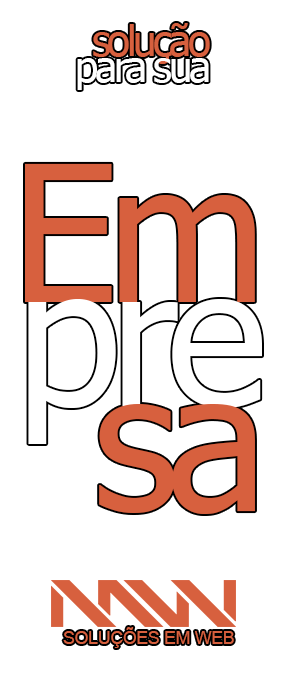
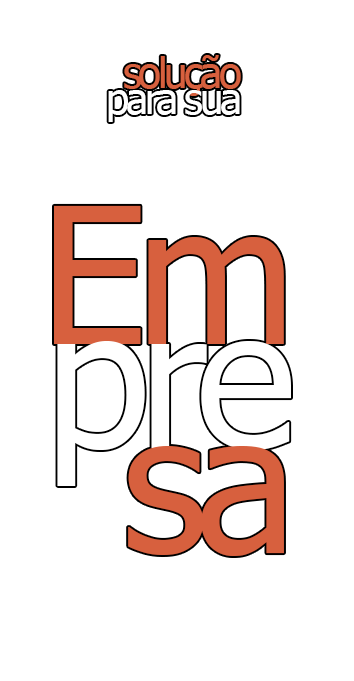
Ajustando o Footer

Changed region(s): [[0.061, 0.2159, 0.9153, 0.9559], [0.2441, 0.0308, 0.7322, 0.185]]

diff --git a/src/styles/home.module.scss b/src/styles/home.module.scss
@@ -5,7 +5,7 @@
   }
   
   .containerHeader{
-    min-height: calc(100vh - 13rem);
+    min-height: calc(100vh - 5rem);
     margin: 0 auto;
     max-width: 1120px;
   
@@ -69,17 +69,66 @@
         max-width: 550px;
       }
       h2{
-        font-size: 2.2rem;
-        line-height: 4.5rem;
+        font-size: 2.7rem;
+        line-height: 3.5rem;
         font-weight: 900;
-        margin-top: 2.2rem;
+        margin-top: 2.5rem;
         color: var(--white);
       }
 
       span{
-        font-size: 1rem;
+        font-size: 1.4rem;
         line-height: 2.25rem;
         color: var(--white);
         
       }
    }
+
+.nextLevelContent{
+  margin: 6rem auto;
+  max-width: 1120px;
+  display: flex;
+  align-items: flex-start;
+  justify-content: space-between;
+  flex-direction: column;
+
+  .iconsContato{
+    a{
+      margin-left: 10px;
+    }
+
+  }
+
+
+   
+  h2{
+    font-size: 2.3rem ;
+    line-height: 4.5rem;
+    font-weight: 900;
+    color: var(--white);
+    font-family: 'Oswald', sans-serif;
+
+    span{
+      font-size: 2.3rem;
+      line-height: 4.5rem;
+      color: var(--orange-500);
+    }
+  }
+  span{
+    font-size: 1.5rem;
+    line-height: 2.25rem;
+    color: var(--white);
+    font-family: 'Rajdhani', sans-serif;
+  }
+  button{
+    background-color: var(--orange-500);
+    border: 0;
+    padding: 1rem 1.8rem;
+    margin-top: 2.5rem;
+    border-radius: 6px;
+    color: var(--white);
+    font-weight: bold;
+   
+  }
+}
+

diff --git a/src/pages/index.tsx b/src/pages/index.tsx
@@ -1,5 +1,7 @@
 import Head from 'next/head'
 import styles from '../styles/home.module.scss'
+import Image from 'next/image'
+import contats from '../../public/images/contats.png'
 
 
 export default function Home() {
@@ -52,9 +54,21 @@ export default function Home() {
 
           </span>
         </section>
-       
        </div>
-
+      <div className={styles.nextLevelContent}>
+        <div className={styles.iconsContato}>
+          <a href=""><img src="/images/email.png" alt="" /> </a>
+          <a href=""><img src="/images/telephone-call.png" alt="" /></a>
+          <a href=""><img src="/images/instagram.png" alt="" /></a>
+          <a href=""><img src="/images/facebook.png" alt="" /></a>
+          <a href=""><img src="/images/twitter.png" alt="" /></a>
+        </div>
+        <h2>Otimize seu site e alcance mais clientes com <span className={styles.nomeEmpresa}> MW Soluções WEB</span> .</h2>
+        <span>Desenvolver Web -  SEO e Pay Per Click - Gestão de Tráfegos Pagos - Omnichannel  </span>
+        <a>
+          <button>Quer vender mais ?</button>
+        </a>
+      </div>
       </main>
     </>
   )

diff --git a/src/components/Header/index.tsx b/src/components/Header/index.tsx
@@ -1,6 +1,6 @@
 import Image from 'next/image'
 import styles from './styles.module.scss'
-import logo from '../../../public/images/logo.svg'
+import logo from '../../../public/images/logo.png'
 import { ActiveLink } from '../ActiveLink'
 
 
@@ -15,8 +15,10 @@ export function Header(){
            <ActiveLink href="/" activeClassName={styles.active} >
                 <a>
                     <Image src={logo}  alt="MW Solucoes WB"/> 
+            
                </a>
             </ActiveLink>
+            
             <nav>
             <ActiveLink href="/" activeClassName={styles.active} >
                 <a >Home</a>

diff --git a/src/components/Header/styles.module.scss b/src/components/Header/styles.module.scss
@@ -15,6 +15,7 @@
     img{
         cursor: pointer;
         width: 15rem;
+        height: 75px;
     }
 
     nav{
